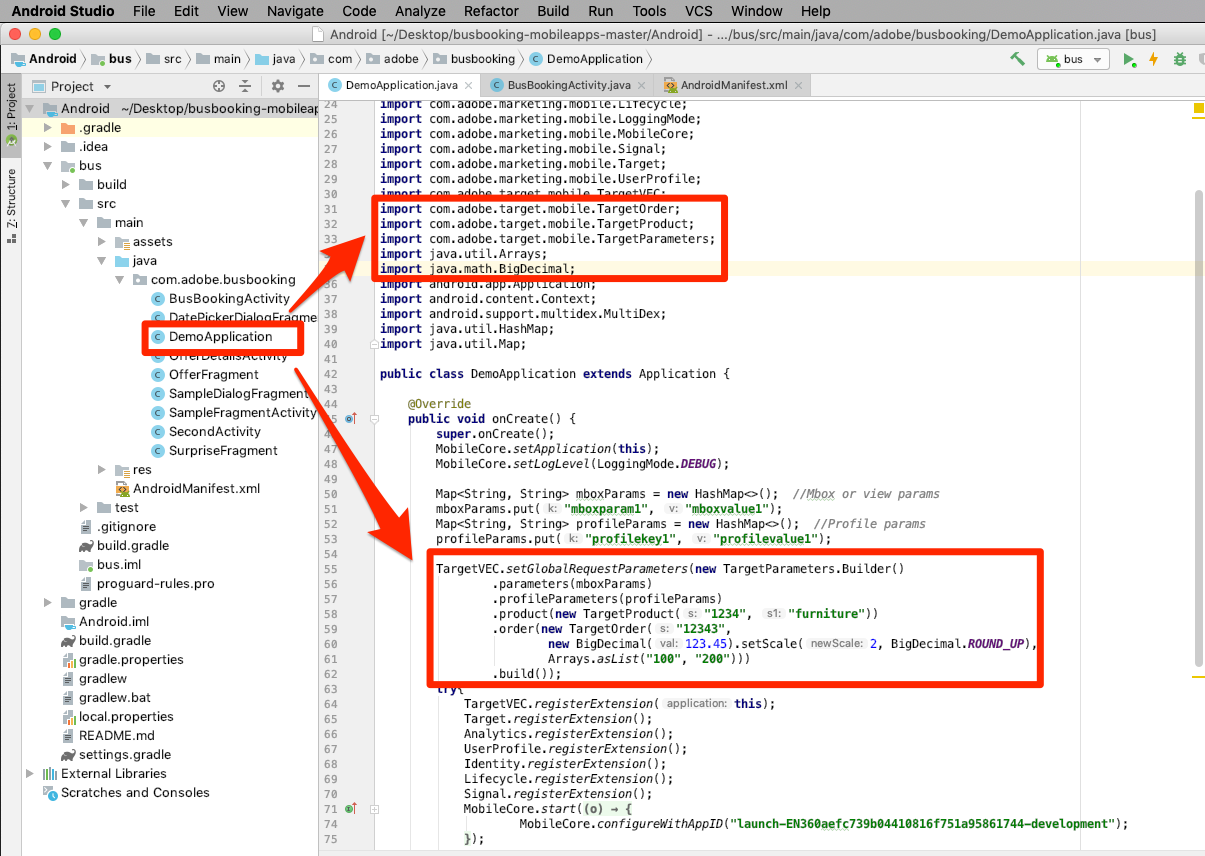
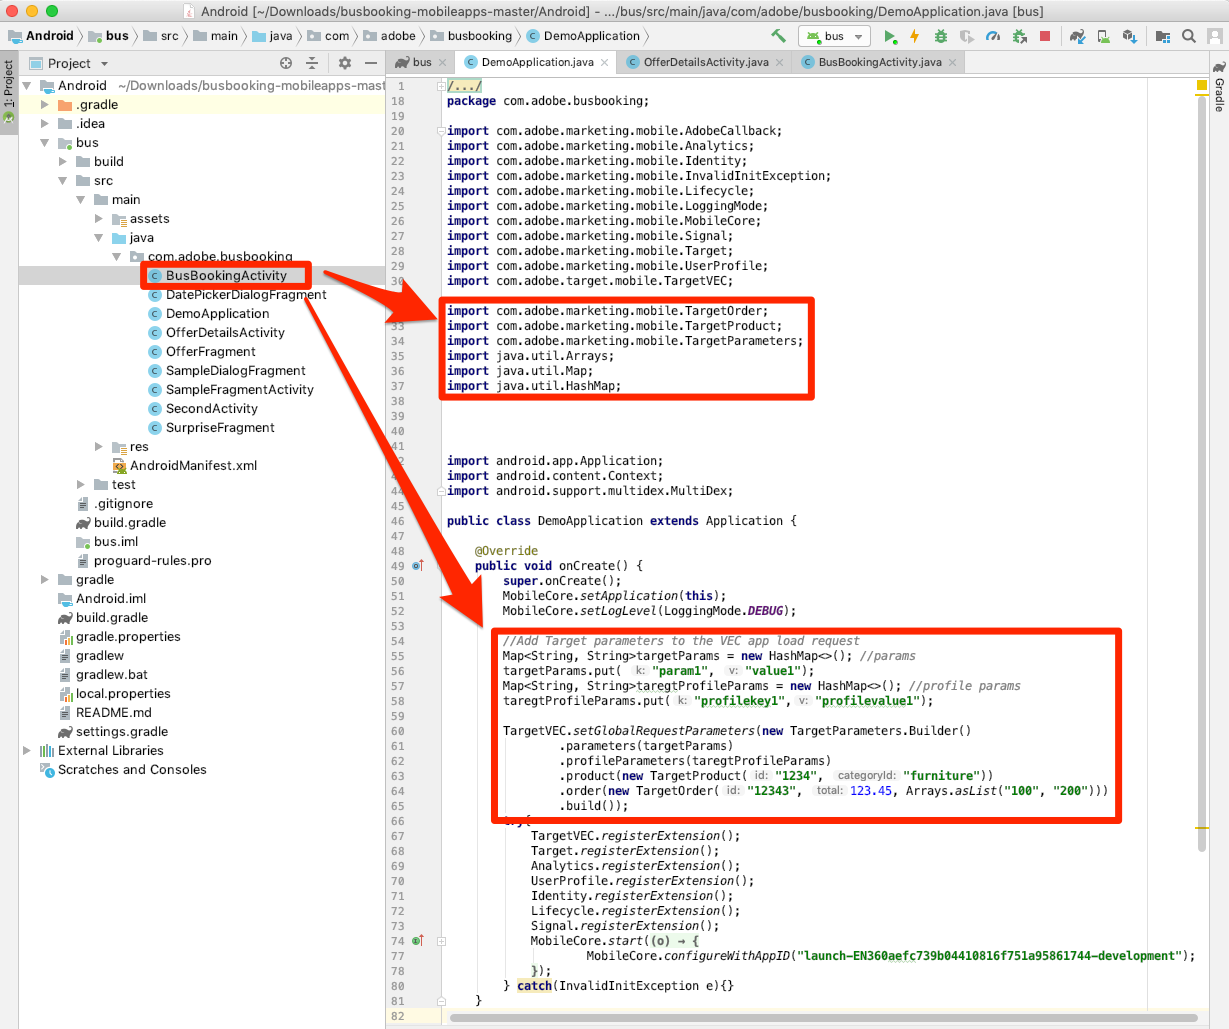
updating android VEC instructions, removed beta note from all mobile tutorials

Changed region(s): [[0.0, 0.0, 1.0, 1.0], [0.2456, 0.6075, 0.2763, 0.9112]]

diff --git a/help/mobile-android-implementation/target-vec.md b/help/mobile-android-implementation/target-vec.md
@@ -50,27 +50,31 @@ As you just saw in the last exercise, app Lifecycle metrics are automatically in
 
 1. In Android Studio, open `DemoApplication` file.
 1. Import the Target VEC extension by adding `import ACPTargetVEC` beneath the existing import
-1. Add the following sample code in the `onCreate()` function, before the extensions are registered. This example code shows how mbox parameters, profile parameters, product (or entity) parameters, and order parameters can be added to the TargetVEC request. This example uses static values, while in your actual app you would want to use dynamic variables to populate the values. And of course, you would only want to populate the parameters that are relevant to all views:
+1. Add the following sample code in the `onCreate()` function, before the extensions are registered. This example code shows how mbox parameters, profile parameters, product (or entity) parameters, and order parameters can be added to the TargetVEC request. This example uses static values, while in your actual app you would likely want to use dynamic variables to populate the values. And of course, you would only want to populate the parameters that are relevant to all views:
 
    ```java
+   Map<String, String>targetParams = new HashMap<>(); //params
+   targetParams.put( "param1", "value1");
+   Map<String, String>taregtProfileParams = new HashMap<>(); //profile params
+   taregtProfileParams.put("profilekey1","profilevalue1");
+
    TargetVEC.setGlobalRequestParameters(new TargetParameters.Builder()
-      .parameters(mboxParams)
-      .profileParameters(profileParams)
-      .product(new TargetProduct("1234", "furniture"))
-      .order(new TargetOrder("12343",
-            new BigDecimal(123.45).setScale(2, BigDecimal.ROUND_UP),
-            Arrays.asList("100", "200")))
-      .build());
+            .parameters(targetParams)
+            .profileParameters(taregtProfileParams)
+            .product(new TargetProduct("1234", "furniture"))
+            .order(new TargetOrder("12343", 123.45, Arrays.asList("100", "200")))
+            .build());
    ```
 
-1. You may notice errors in Android Studio, since the parameter code above requires the following imports, which you need to add:
+1. You may notice errors in Android Studio, since the parameter code above requires the following imports, which you need to add to the file:
 
    ```java
-   import com.adobe.target.mobile.TargetOrder;
-   import com.adobe.target.mobile.TargetProduct;
-   import com.adobe.target.mobile.TargetParameters;
+   import com.adobe.marketing.mobile.TargetOrder;
+   import com.adobe.marketing.mobile.TargetProduct;
+   import com.adobe.marketing.mobile.TargetParameters;
    import java.util.Arrays;
-   import java.math.BigDecimal;
+   import java.util.Map;
+   import java.util.HashMap;
    ```
 
    ![Add Parameters to the TargetVEC request](images/android/mobile-targetvec-addParameters.png)
@@ -83,9 +87,11 @@ Now that you've added parameters to the app, it's time to confirm they are being
 1. Rebuild the app and wait for it to reopen in the Emulator
 1. Open the Logcat pane of Android Studio
 1. Filter to show all statements with "Target r"
-1. The custom parameters you just added should be visible in both the prefetch and notifications request
+1. The custom parameters you just added should be visible in the request
 
    ![Verify Parameters to the TargetVEC request](images/android/mobile-targetvec-verifyParams.png)
+
+For more information, and details on how to pass parameters with specific views, see [the documentation](https://docs.adobe.com/content/help/en/target/using/implement-target/mobile-apps/composer/mobile-visual-experience-composer-android.html#parameters).
 
 ## Pairing the Mobile App with the Target Interface
 
@@ -93,43 +99,29 @@ In order to create VEC activities in the Target interface, you must first pair T
 
 ### Creating the Deep Link
 
-Android supports the use of [Deep links and Android App Links](https://developer.apple.com/documentation/uikit/core_app/allowing_apps_and_websites_to_link_to_your_content) to create URLs that go directly to specific locations in your app. You probably already use these in your app. If so, you can use these existing links to pair with Target. For this tutorial, you must create an intent filter in the AndroidManifest.XML file to create your deep link.
+Android supports the use of [Deep links and Android App Links](https://developer.android.com/training/app-links/deep-linking) to create URLs that go directly to specific locations in your app. You probably already use these in your app. If so, you can use these existing links to pair with Target. For this tutorial, you will review the deep link scheme already defined in the Bus Booking app so you have a sense of what you will need to have in your own app.
 
-**To create your deep link**
+**To verify the Intent Filter**
 
-1. In Android Studio, double-click on your app to open the Settings screen
-1. On the Settings screen, click the `Info` tab
-1. Expand the URL Types section
-1. Note that the **[!UICONTROL Identifier]** is set to `com.adobetarget.BusBookingSwift`. You can use this identifier or change it if you like.
-1. Note that the **[!UICONTROL URL Scheme]** is `http`. You can use this scheme or change it if you like.
-1. Make sure  **[!UICONTROL Editor]** is selected as the **[!UICONTROL Role]**
+1. In Android Studio, open the AndroidManifest.xml file
+1. Note that there is already an Intent Filter configured for the deep link scheme of the Bus Booking app
+1. Note that the `Host` and `Scheme` are already set to `com.adobe.example.busbooking` and `http`, respectively. This means that a url like `http://busboooking.example.adobe.com` when opened in the Simulator should automatically open the sample app
 
-   ![Register the URL Scheme](images/mobile-targetvec-registerScheme.png)
+   ![Register the URL Scheme](images/android/mobile-targetvec-registerScheme.png)
 
-1. If you updated the identifier or scheme, click on the `General` tab so the scheme will save.  Click back on the `Info` tab, expand the `URL type` section and verify that your identifier or scheme and saved.
-  
-The next step is to add a handler to the deep link.
-
-**To handle the deep links**
-
-1. Open the `AppDelegate.swift` file
-1. Add the line `ACPTargetVEC.handleDeepLink(url)` to the `AppDelegate:application:openURL` section as pictured below
-
-<!--
-   ![Update the AppDelegate file](images/android/mobile-targetvec-appDelegate.png)
--->
+The next step is to confirm that the deep link scheme is working
 
 ### Verify the deep link
 
-Now, when a user with your app installed opens a URL like `BusBookingSwift://com.adobetarget.BusBookingSwift` (or whatever scheme you defined) in the Emulator it will open your application.
+Because of the way the Intent Filter is configured, when a user with your app installed opens a URL like `http://busboooking.example.adobe.com` in the Emulator it will open your application.
 
 **To verify the deep link scheme**
 
 1. Save the Android Studio project
 1. Rebuild the app
-1. In the Emulator, open Safari
-1. Enter the url `BusBookingSwift://com.adobetarget.BusBookingSwift` (or whatever scheme you defined) into the address bar. If you have any difficulties, see the Tip section below.
-1. You should get prompted with a modal to "Open this page in "BusBookingSwift." If you have any difficulties, see the Tip section below.
+1. In the Emulator, open Chrome
+1. Enter the url `http://busboooking.example.adobe.com` into the address bar. If you have any difficulties, see the Tip section below.
+1. You should get prompted with a modal to "Open this page in "DemoApplication."
 1. Click `Open`
 1. This should open the Bus Booking app
 
@@ -137,21 +129,11 @@ Now, when a user with your app installed opens a URL like `BusBookingSwift://com
    ![Verify the deep link](images/android/mobile-targetvec-verifyDeepLink.png)
   -->
 
-    >[!TIP] If you are unsuccessful when copy-and-pasting the URL from your Desktop to the Emulator it's usually for one of these two reasons:
-    >
-    >   1. **The URL copied from the Target interface doesn't paste into the Emulator** This happens when the Desktop and Emulator clipboards are not synced.  If this happens, try toggling off and on the `Automatically Sync Pasteboard` setting in the Emulator and copy/pasting again:
-    >
-    >      ![Toggle the Emulator's clipboard setting](images/mobile-targetvec-toggleClipboard.png)
-    >
-    >   1. **Pasting the URL lands on the Google Search results page** Try repasting the deep link URL into the address bar and hitting `Enter`. You might need to repeat this a few times.
-
 Now that your deep link structure is set up, you are ready to use the Target VEC to set up activities!
 
 ## Create an activity in the Mobile VEC
 
 Now let's create an activity in the Target UI.
-
->[!WARNING] The Visual Experience Composer for mobile apps is currently in Beta and may not be available in your Target account.  Even if you have been able to complete all of the steps thus far, you may not see the Mobile VEC option in the Target interface when you try to create an activity.
 
 **To Create an Activity with the Target VEC**
 

diff --git a/help/mobile-ios-objective-c-implementation/target-vec.md b/help/mobile-ios-objective-c-implementation/target-vec.md
@@ -159,8 +159,6 @@ Now that your deep link structure is set up, you are ready to use the Target VEC
 
 Now let's create an activity in the Target UI.
 
->[!WARNING] The Visual Experience Composer for mobile apps is currently in Beta and may not be available in your Target account.  Even if you have been able to complete all of the steps thus far, you may not see the Mobile VEC option in the Target interface when you try to create an activity.
-
 **To Create an Activity with the Target VEC**
 
 1. Log into the [Adobe Experience Cloud](https://experiencecloud.adobe.com)

diff --git a/help/mobile-ios-swift-implementation/target-vec.md b/help/mobile-ios-swift-implementation/target-vec.md
@@ -155,8 +155,6 @@ Now that your deep link structure is set up, you are ready to use the Target VEC
 
 Now let's create an activity in the Target UI.
 
->[!WARNING] The Visual Experience Composer for mobile apps is currently in Beta and may not be available in your Target account.  Even if you have been able to complete all of the steps thus far, you may not see the Mobile VEC option in the Target interface when you try to create an activity.
-
 **To Create an Activity with the Target VEC**
 
 1. Log into the [Adobe Experience Cloud](https://experiencecloud.adobe.com)
